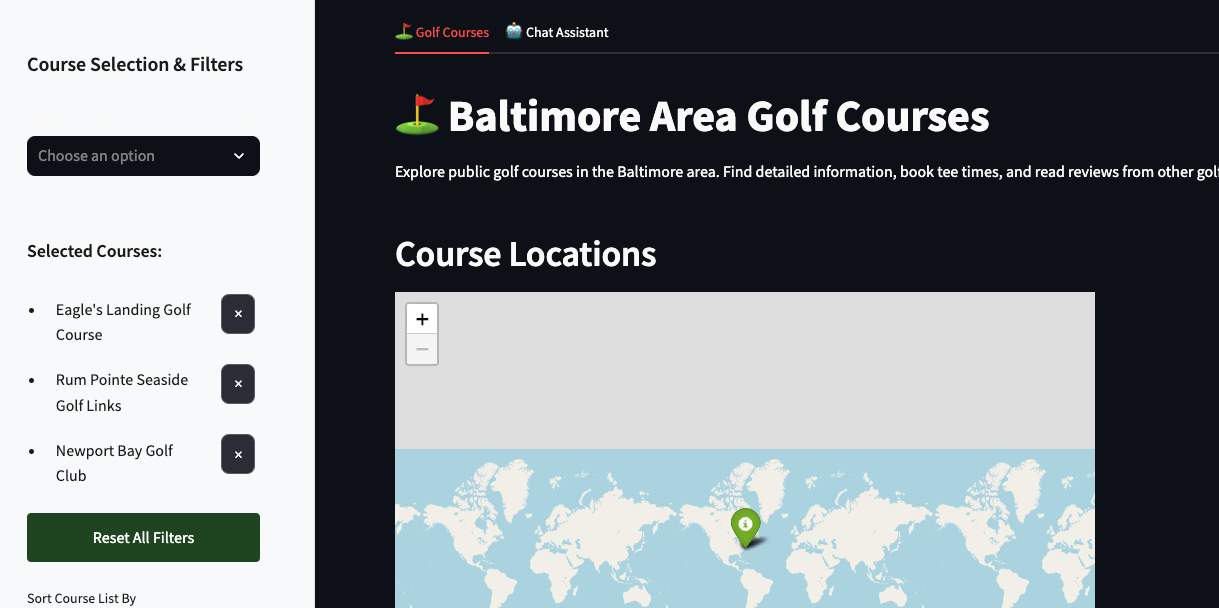
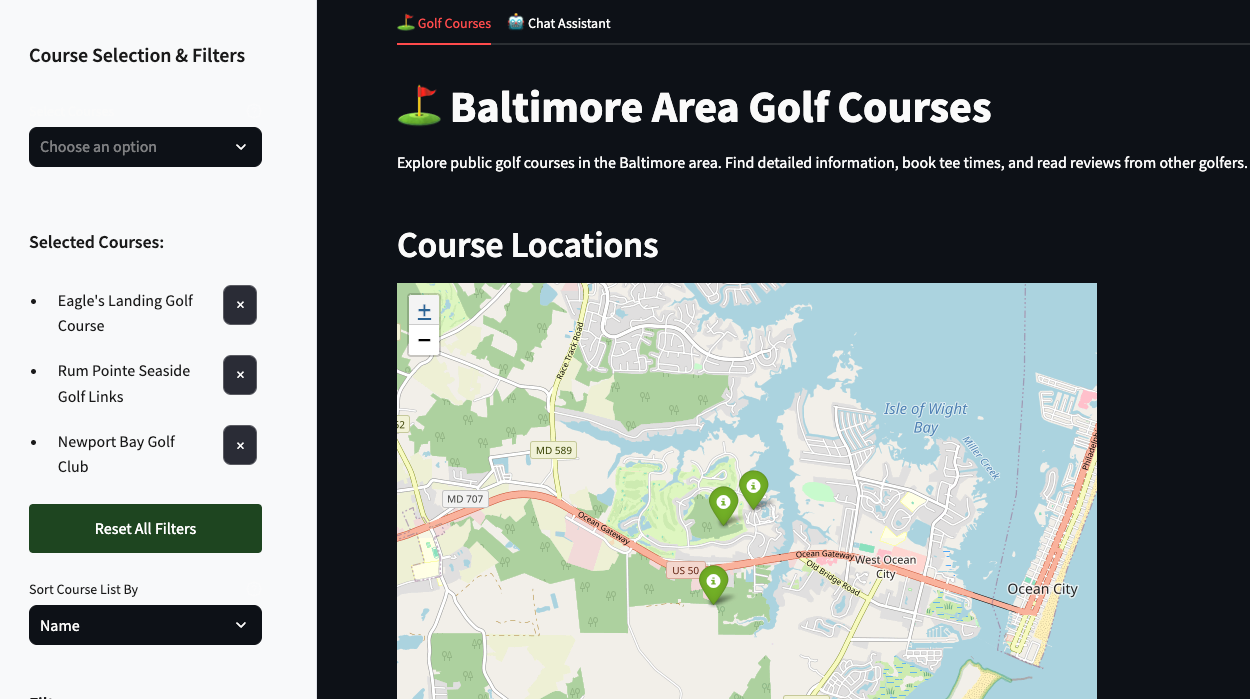
Agent query: Does the map now provide a closer initial view and maintain proper zoom levels when courses are selected?

diff --git a/components/map_view.py b/components/map_view.py
@@ -12,9 +12,9 @@ def show_map(filtered_df):
     # Create a map centered on Maryland with bounds restrictions
     m = folium.Map(
         location=[39.0458, -76.6413],
-        zoom_start=8,
-        min_zoom=7,
-        max_zoom=15,  # Add max zoom limit
+        zoom_start=10,  # Increased from 8 to 10 for closer initial view
+        min_zoom=8,     # Increased from 7 to 8
+        max_zoom=15,
         max_bounds=True,
         bounds=[[37.8, -79.5], [40.2, -74.5]]
     )
@@ -54,7 +54,7 @@ def show_map(filtered_df):
         ne = display_df[['lat', 'lon']].max().values.tolist()
         
         # Adjust padding based on the number of markers
-        padding = 0.05 if len(display_df) > 1 else 0.02  # Reduced padding values
+        padding = 0.02 if len(display_df) > 1 else 0.01  # Reduced padding values
         
         # Calculate padded bounds
         padding_lat = (ne[0] - sw[0]) * padding
